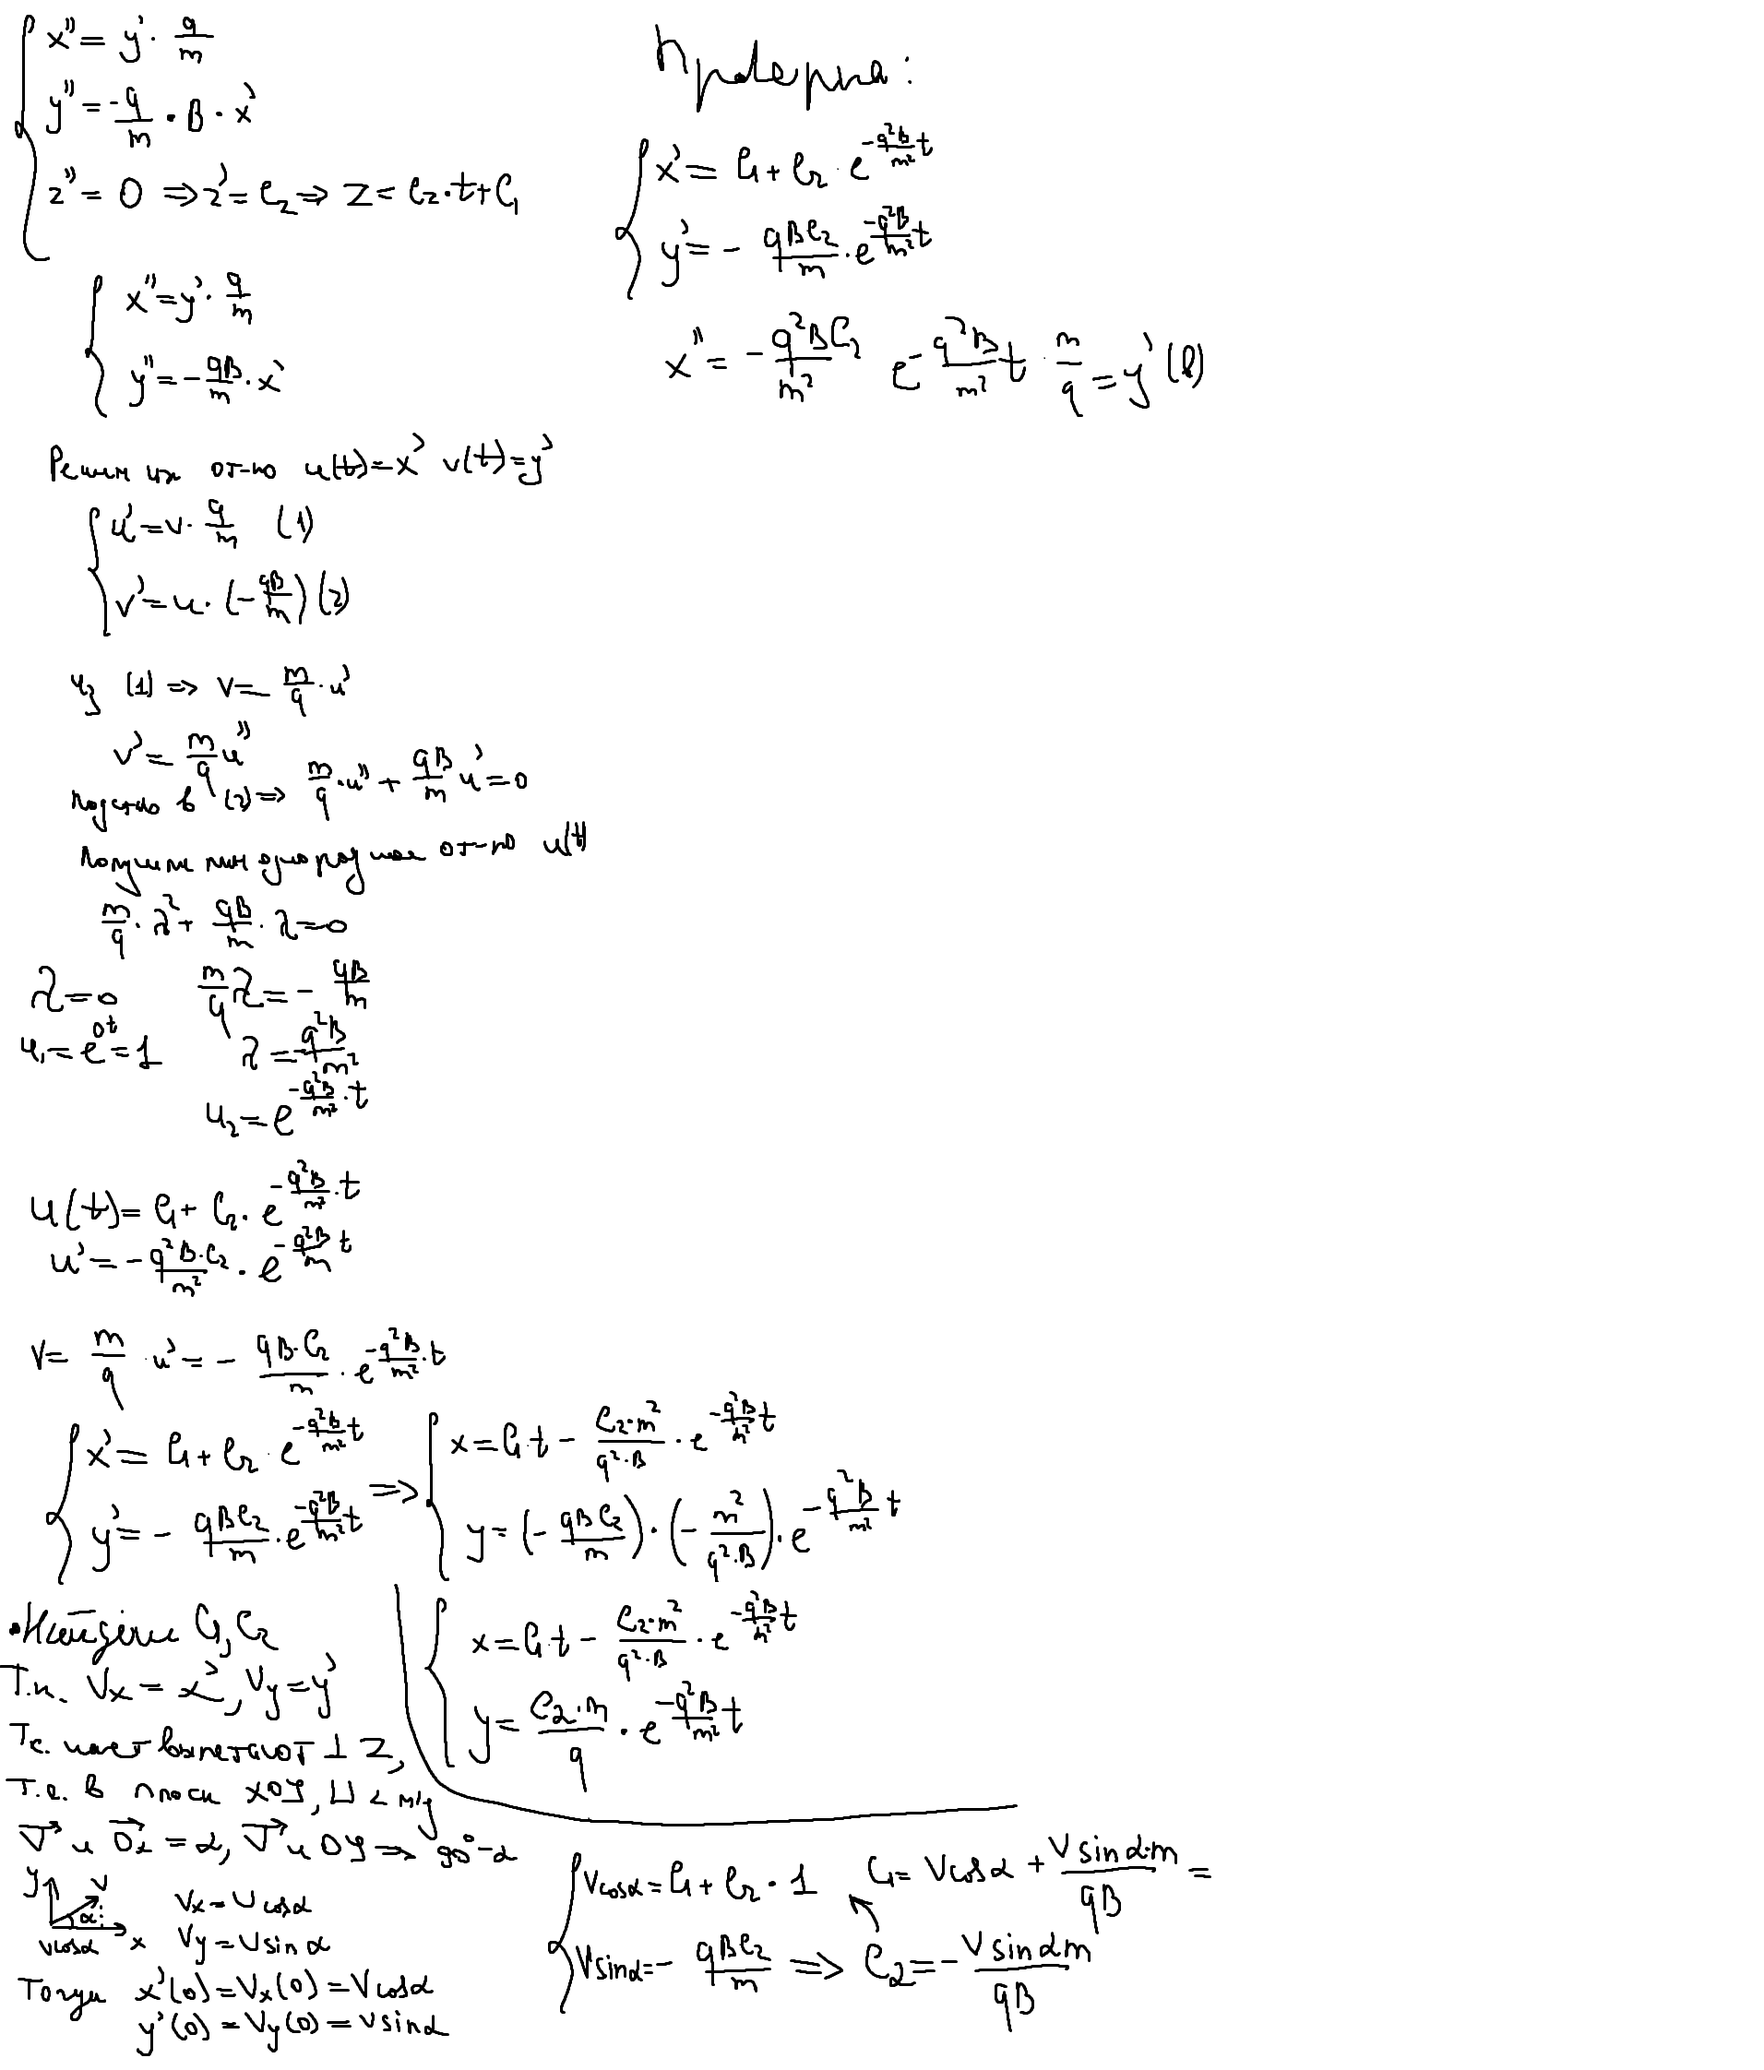
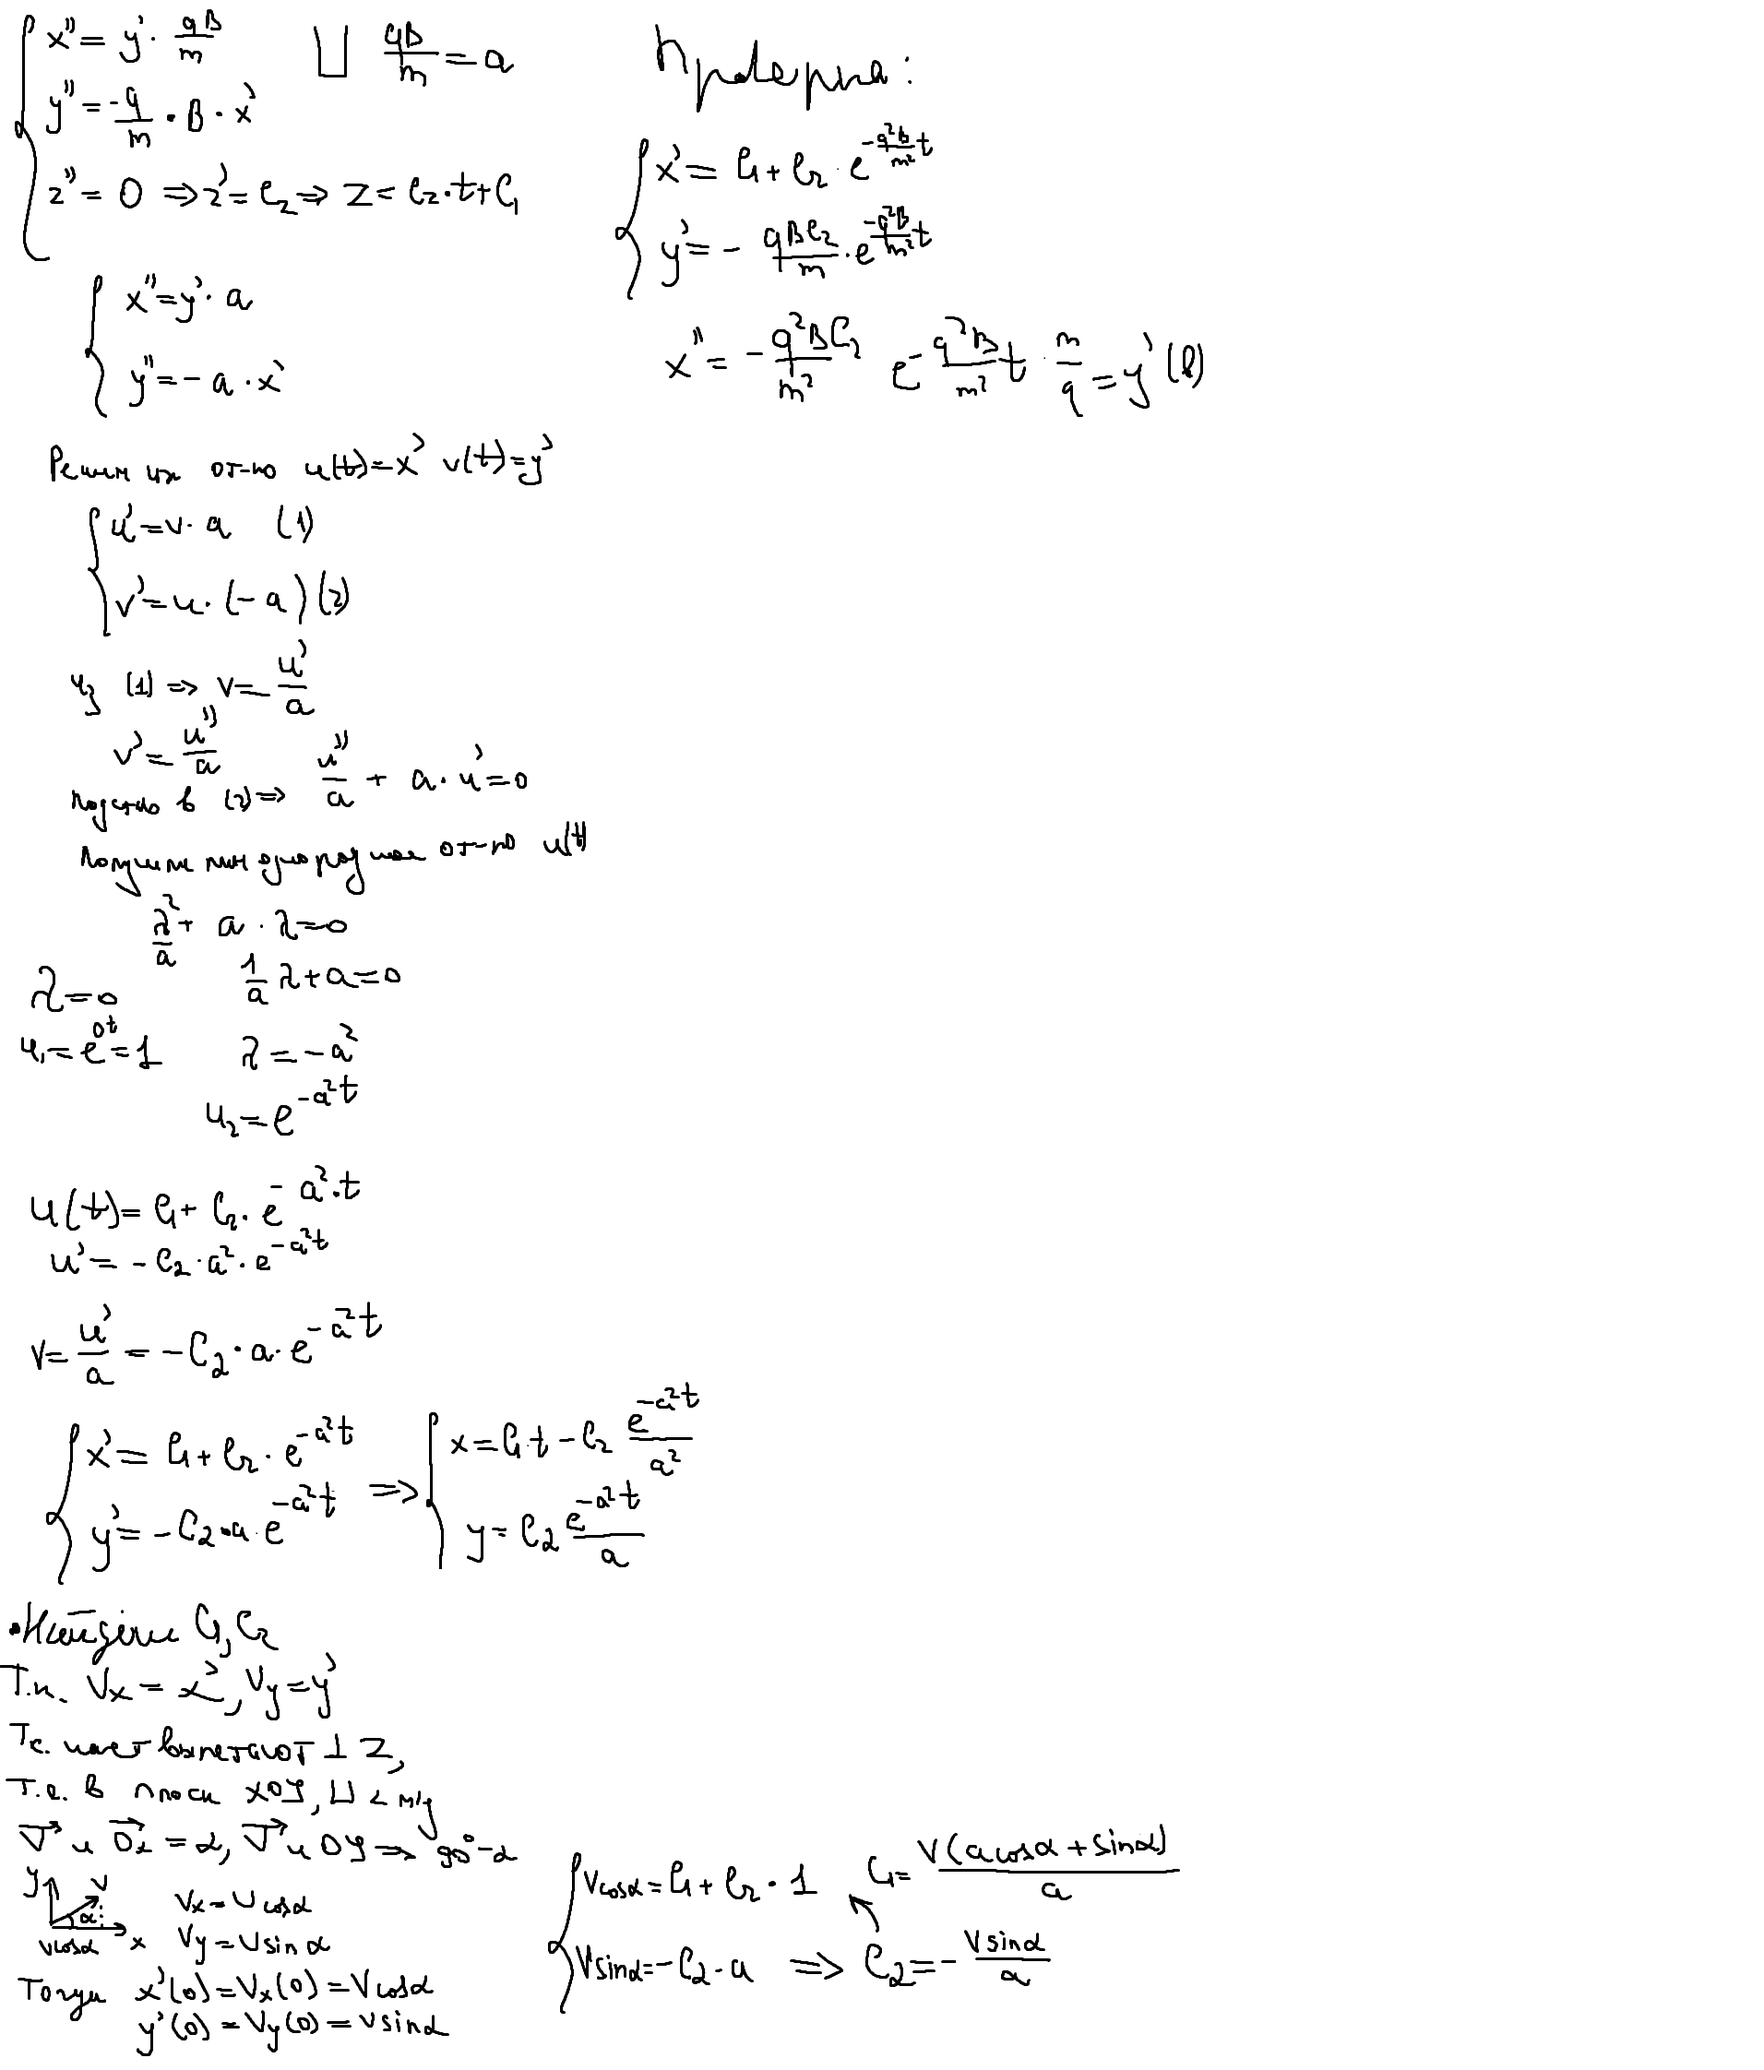
refactor
Fixed solution, added menu, fixed formulas

diff --git a/Physics/Modeling4/start.py b/Physics/Modeling4/start.py
@@ -1,0 +1,68 @@
+import math
+from tkinter import *
+import formulas
+
+
+def start():
+    m = float(ent1.get()) * 1.66 * 10**(-27)
+    q = float(ent2.get()) * 1.6 * 10**(-19)
+    v = float(ent3.get())
+    B = float(ent4.get())
+    alpha = math.radians(float(ent5.get()))
+    color = ent6.get()
+    window.quit()
+    formulas.make_graph(m, q, v, B, alpha, color)
+
+
+window = Tk()
+window.title("Ввод данных")
+window.geometry('380x160')
+lbl1 = Label(window, text="Масса изотопа")
+lbl1.grid(column=0, row=0)
+lbl2 = Label(window, text="Заряд изотопа")
+lbl2.grid(column=0, row=1)
+lbl3 = Label(window, text="Начальная скорость")
+lbl3.grid(column=0, row=2)
+lbl4 = Label(window, text="Вектор магнитной индукции")
+lbl4.grid(column=0, row=3)
+lbl5 = Label(window, text="Угол вылета изотопа")
+lbl5.grid(column=0, row=4)
+lbl6 = Label(window, text="Цвет")
+lbl6.grid(column=0, row=5)
+
+ent1 = Entry(window, width=10)
+ent1.grid(column=1, row=0)
+ent2 = Entry(window, width=10)
+ent2.grid(column=1, row=1)
+ent3 = Entry(window, width=10)
+ent3.grid(column=1, row=2)
+ent4 = Entry(window, width=10)
+ent4.grid(column=1, row=3)
+ent5 = Entry(window, width=10)
+ent5.grid(column=1, row=4)
+ent6 = Entry(window, width=10)
+ent6.grid(column=1, row=5)
+
+lbl_1 = Label(window, text="а.е.м")
+lbl_1.grid(column=2, row=0)
+lbl_2 = Label(window, text="e")
+lbl_2.grid(column=2, row=1)
+lbl_3 = Label(window, text="м/c")
+lbl_3.grid(column=2, row=2)
+lbl_4 = Label(window, text="Тл")
+lbl_4.grid(column=2, row=3)
+lbl_5 = Label(window, text="°")
+lbl_5.grid(column=2, row=4)
+lbl_6 = Label(window, text="Название")
+lbl_6.grid(column=2, row=5)
+
+ent1.insert(1, "20")
+ent2.insert(1, "1")
+ent3.insert(1, "1000")
+ent4.insert(1, "0.01")
+ent5.insert(1, "45")
+ent6.insert(1, "red")
+
+btn = Button(window, text="     Пуск     ", command=start)
+btn.grid(column=1, row=6)
+window.mainloop()

diff --git a/Physics/Modeling4/formulas.py b/Physics/Modeling4/formulas.py
@@ -1,0 +1,30 @@
+from math import *
+from matplotlib import pyplot as plt
+
+
+def calculate_x(t, C1, C2, a):
+    return C1 * t - ((C2 * exp(-1 * a**2 * t)) / a**2)
+
+
+def calculate_y(t, C2, a):
+    return C2 * exp(-1 * a**2 * t) / a
+
+
+def make_graph(m, q, v, B, alpha, color: str):
+    a = q * B / m
+    C1 = (v * (a * cos(alpha) + sin(alpha))) / a
+    C2 = -1 * (v * sin(alpha)) / a
+
+    arr_x = []
+    arr_y = []
+    arr_t = [i / 10**14 for i in range(2 * 10**5)]
+
+    for t in arr_t:
+        arr_x.append(calculate_x(t, C1, C2, a))
+        arr_y.append(calculate_y(t, C2, a))
+
+    min_y = abs(min(arr_y))
+    arr_y_normalized = [y + min_y for y in arr_y]
+    plt.plot(arr_x, arr_y_normalized, color=color)
+    plt.title("y(x)")
+    plt.show()
